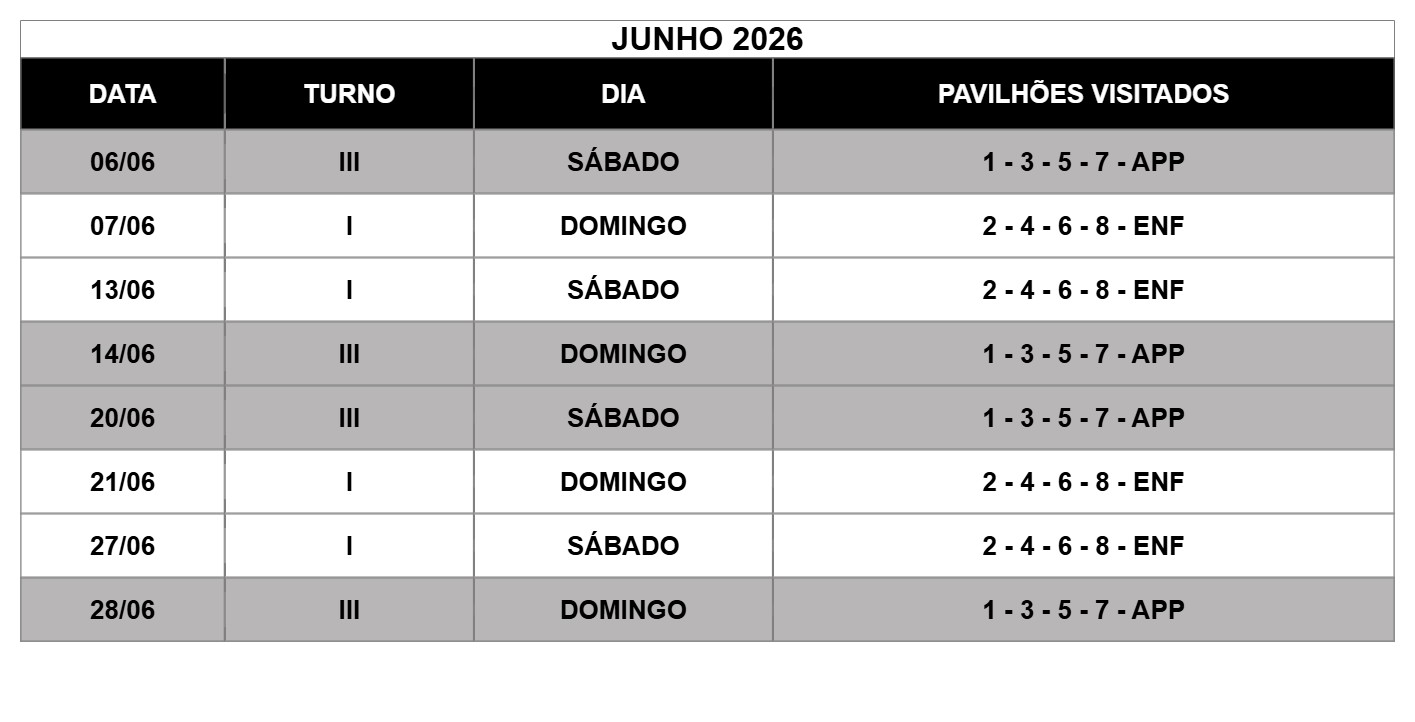
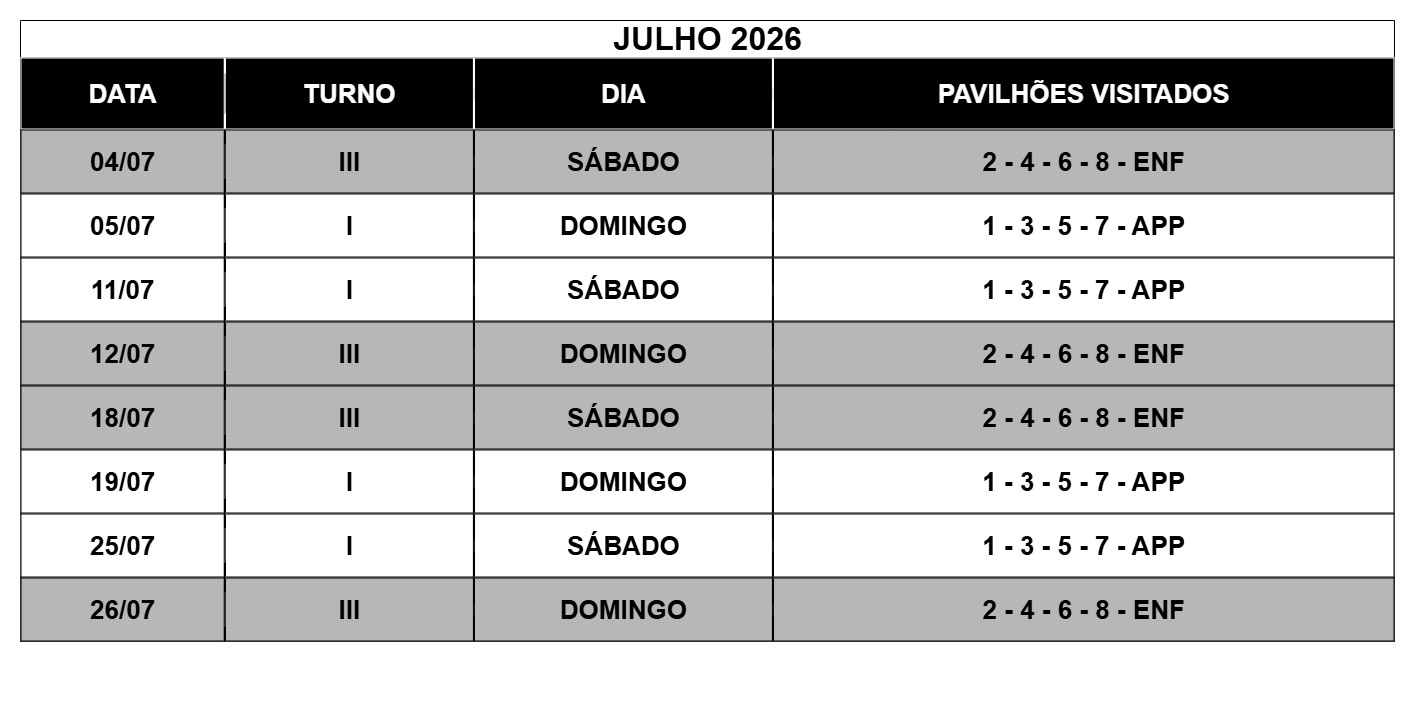
commit calendario julho de 2026

diff --git a/calendario.html b/calendario.html
@@ -39,7 +39,7 @@
       <section>
         <h2>Calendário de Visitação</h2>
         <img src="imagens/calendario.jpg" alt="Calendário de Visitação">
-        <p style="text-align: center;">Atualizado dia 04/06/2026</p>
+        <p style="text-align: center;">Atualizado dia 30/06/2026</p>
         <!--<p style="color: red; font-weight: bold; text-align: center;">DEVIDO AS ELEIÇÕES, A VISITAÇÃO DO DIA 02/10/2022 TERÁ SEU HORÁRIO ALERADO. DAS 10H ÀS 16H.</p>-->
       </section>
     </main>

diff --git a/index.html b/index.html
@@ -61,7 +61,7 @@
       <section>
         <h2>Últimas Informações</h2>
         <section>
-          <p>Calendário de visitação de junho de 2026</p>
+          <p>Calendário de visitação de julho de 2026</p>
           <img src="imagens/calendario.jpg" alt="Informações sobre o Calendário">
         </section>
         <!--<section>
